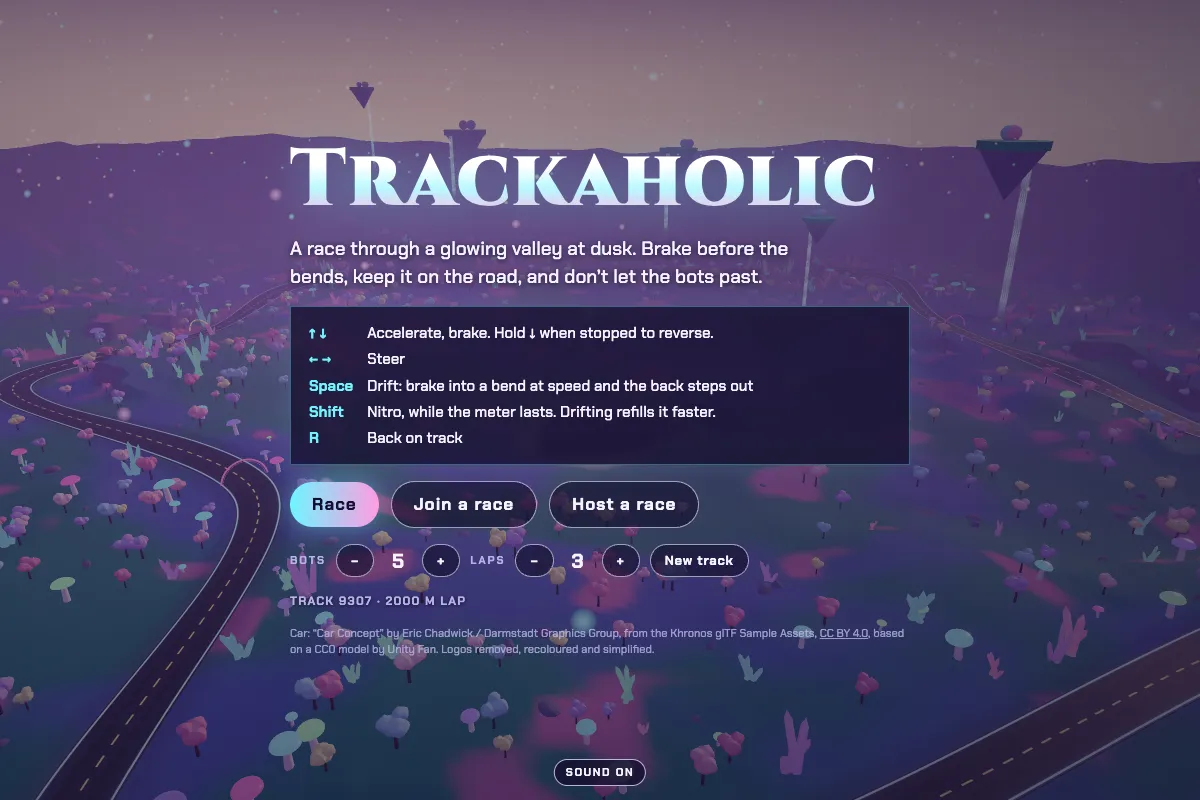
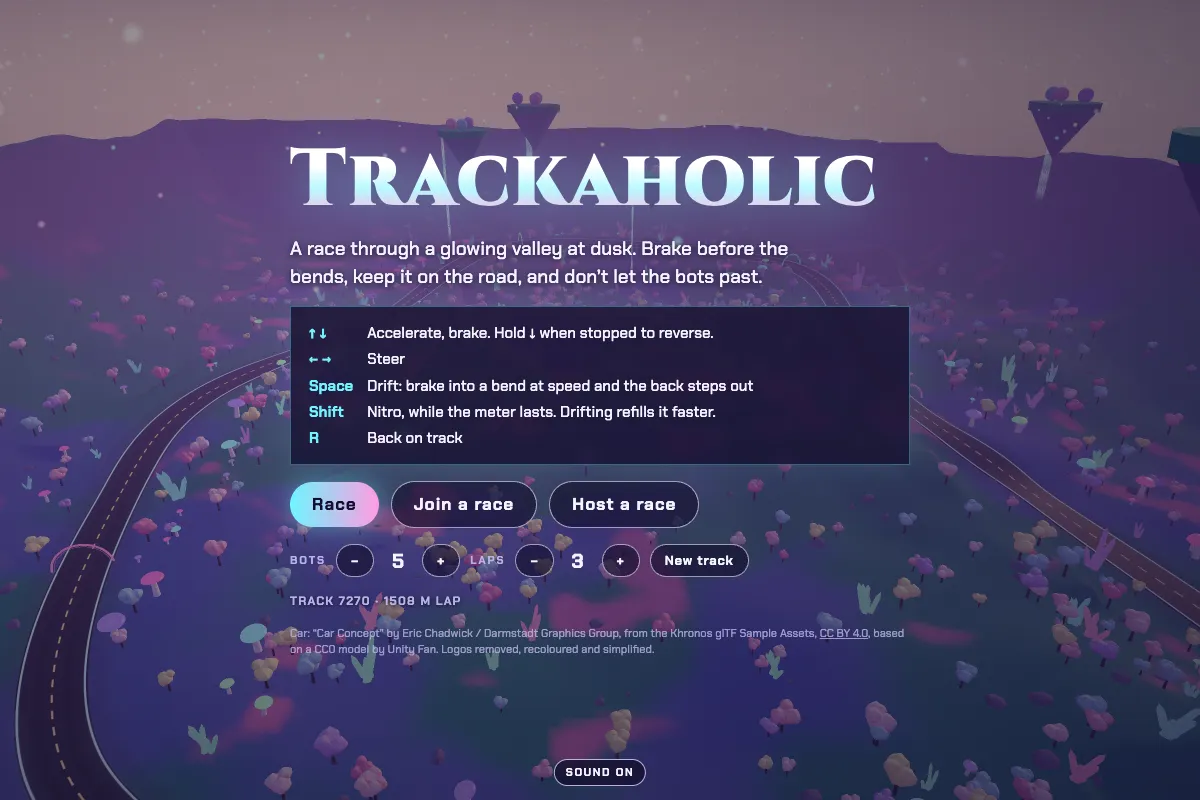
deploy: Jermolene/blog@c258cdfe18fe403fb0031694514c613552e8600b

diff --git a/toys/trackaholic/index.html b/toys/trackaholic/index.html
@@ -350,7 +350,7 @@ function makeTrack(seed){
 const Q={i:0,t:0,d:0,y:0,bk:0,dist:1e9,tx:0,tz:1,along:0};
 function trackQuery(x,z,hint=-1,out=Q){
   const t=T,S=t.S;let best=-1,bd=1e18;
-  if(hint>=0){for(let k=-14;k<=14;k++){const i=(hint+k+S)%S,dx=x-t.X[i],dz=z-t.Z[i],d=dx*dx+dz*dz;if(d<bd){bd=d;best=i}}if(bd>900)best=-1}
+  if(hint>=0){for(let k=-14;k<=14;k++){const i=(hint+k+S)%S,dx=x-t.X[i],dz=z-t.Z[i],d=dx*dx+dz*dz;if(d<bd){bd=d;best=i}}if(bd>900){best=-1;bd=1e18}}
   if(best<0){const cx=Math.floor(x/t.CELL),cz=Math.floor(z/t.CELL);
     for(let r=1;r<=4&&best<0;r+=r<2?1:2)for(let a=-r;a<=r;a++)for(let b=-r;b<=r;b++){const l=t.hash.get(t.key(cx+a,cz+b));if(l)for(const i of l){const dx=x-t.X[i],dz=z-t.Z[i],d=dx*dx+dz*dz;if(d<bd){bd=d;best=i}}}
     if(best<0)for(let i=0;i<S;i+=3){const dx=x-t.X[i],dz=z-t.Z[i],d=dx*dx+dz*dz;if(d<bd){bd=d;best=i}}}
@@ -407,8 +407,14 @@ function groundN(x,z,hint,o){const e=0.35,hx=groundH(x+e,z,hint)-groundH(x-e,z,h
 // curve), longitudinal force from drive and brakes, and the pair is capped by a friction circle scaled by that wheel's load.
 // Weight transfer, body roll and pitch all come out of the springs; nothing is scripted.
 const CAR={mass:1250,I:new THREE.Vector3(2170,2390,620),k:32000,cb:2600,cr:3500,rest:0.32,arbF:9000,arbR:6000,
-  power:175000,fmax:11500,brake:17000,cd:0.85,down:0.5,mu:1.18,muGrass:0.78,radius:0.384,wheels:null,com:new THREE.Vector3(0,0.5,0.05),
-  dims:{w:1.9,h:1.15,l:4.35,fz:2.4,rz:-1.95}};
+  power:175000,fmax:11500,brake:17000,cd:0.85,down:0.5,mu:1.45,muGrass:0.95,radius:0.384,wheels:null,com:new THREE.Vector3(0,0.5,0.05),
+  dims:{w:1.9,h:1.15,l:4.35,fz:2.4,rz:-1.95},
+  // handling aids, tuned with toys-src/trackaholic/test/gameplay.mjs (as was the grip, mu and muGrass): in the air the
+  // body is turned to match the ground below and its rolling and pitching damped (air); on the ground a tipped car is
+  // pushed back upright (tip); tyre forces act tyreH above the contact patch; steering lock falls with speed as
+  // 1/(1+v/stV); on touch screens the automatic throttle also slows for the corner ahead, aiming for assist times the
+  // corner's speed (0 turns that off)
+  air:{k:8,d:3},tip:{k:6,start:0.35},tyreH:0.28,stV:16,assist:1.05};
 const HZ=120,GRAV=9.81;
 const _v1=new THREE.Vector3(),_v2=new THREE.Vector3(),_v3=new THREE.Vector3(),_v4=new THREE.Vector3(),_v5=new THREE.Vector3(),_n=new THREE.Vector3(),
   _m3=new THREE.Matrix3(),_m4=new THREE.Matrix4(),_q=new THREE.Quaternion(),_up=new THREE.Vector3(),_fw=new THREE.Vector3(),_rt=new THREE.Vector3(),
@@ -458,7 +464,7 @@ function stepCar(c,inp,h){
   c.boost=!!inp.nitro&&c.nitro>0&&!c.rev&&!c.done;
   if(c.boost){c.nitro=Math.max(0,c.nitro-h/2.6);drive=1}else c.nitro=Math.min(1,c.nitro+h/9+(drifting?h/2.5:0));
   if(c.done){drive=0;brakeIn=Math.max(brakeIn,0.25)}
-  const maxSt=0.6/(1+Math.max(0,vf)/16);
+  const maxSt=0.6/(1+Math.max(0,vf)/CAR.stV);
   c.steer+=clamp(clamp(inp.steer,-1,1)*maxSt-c.steer,-2.4*h,2.4*h);
   c.thr=drive;c.brk=brakeIn;
   _F.set(0,-m*GRAV,0);_Tq.set(0,0,0);
@@ -503,7 +509,7 @@ function stepCar(c,inp,h){
     // suspension along the strut, tyre forces applied a little above the contact patch to tame roll
     _v3.copy(_up).multiplyScalar(Fs);_F.add(_v3);_Tq.add(_v4.crossVectors(_v5.copy(C).addScaledVector(_up,0.0).sub(c.p),_v3));
     _v3.copy(_wf).multiplyScalar(Fx).addScaledVector(_ws,Fy);_F.add(_v3);
-    _Tq.add(_v4.crossVectors(_v5.copy(C).addScaledVector(_up,0.28).sub(c.p),_v3));
+    _Tq.add(_v4.crossVectors(_v5.copy(C).addScaledVector(_up,CAR.tyreH).sub(c.p),_v3));
     c.spin[k]+=vl/CAR.radius*h*(brakeIn>0.9&&Math.abs(vl)<1?0:1);
   }
   c.slipMax=slipMax;
@@ -520,6 +526,12 @@ function stepCar(c,inp,h){
       _F.add(_v3);_Tq.add(_v4.crossVectors(_v1,_v3))}}
   // integrate
   c.v.addScaledVector(_F,h/m);
+  // handling aids: level the car in the air to the ground below, and push a tipped car back upright
+  {const nw=c.contact.filter(Boolean).length,upY=_up.y;
+    let k=0,d=0;if(!nw){k=CAR.air.k;d=CAR.air.d}else if(nw<4&&upY>0.2){const tilt=Math.acos(clamp(upY,-1,1));if(tilt>CAR.tip.start)k=CAR.tip.k}
+    if(k||d){groundN(c.p.x,c.p.z,c.hint,_n);_v2.crossVectors(_up,_n);const sn=_v2.length(),ang=Math.atan2(sn,_up.dot(_n)),Ir=CAR.I.x;
+      if(sn>1e-4)_Tq.addScaledVector(_v2,Ir*k*ang/sn);
+      if(d){_v3.copy(c.w).addScaledVector(_n,-c.w.dot(_n));_Tq.addScaledVector(_v3,-Ir*d)}}}
   _v1.copy(_Tq).applyMatrix3(_m3.clone().transpose()); // to body frame
   _v1.set(_v1.x/CAR.I.x,_v1.y/CAR.I.y,_v1.z/CAR.I.z).applyMatrix3(_m3);
   c.w.addScaledVector(_v1,h).multiplyScalar(1-0.4*h);
@@ -887,27 +899,37 @@ function tiltRotated(){tilt.settle=now()+600;tiltZero()}
 if(screen.orientation&&screen.orientation.addEventListener)screen.orientation.addEventListener('change',tiltRotated);
 addEventListener('orientationchange',tiltRotated);
 addEventListener('resize',()=>{const l=innerWidth>innerHeight;if(l!==tilt.land){tilt.land=l;tiltRotated()}});
+// device angle in degrees (clockwise positive) to steering
+function tiltCurve(deg){const a=Math.abs(deg);return a<1.5?0:Math.sign(deg)*Math.pow(Math.min(1,(a-1.5)/26.5),1.15)}
 function tiltSteer(dt){
   if(now()<tilt.settle){tiltZero();return 0}
   let d=tilt.raw-tilt.zero;d=Math.atan2(Math.sin(d),Math.cos(d));
   const deg=-d*180/Math.PI,a=Math.abs(deg);
   // held far past any steering angle for most of a second (a turned device whose screen is locked): centre again
   if(a>65){if(!tilt.far)tilt.far=now();else if(now()-tilt.far>800){tilt.far=0;tiltZero();return 0}}else tilt.far=0;
-  const s=a<1.5?0:Math.sign(deg)*Math.pow(Math.min(1,(a-1.5)/26.5),1.15);
+  const s=tiltCurve(deg);
   tilt.steer+=(s-tilt.steer)*Math.min(1,dt*18);return tilt.steer}
 const tiltMode=()=>tilt.pref==='tilt'&&tilt.ok;
 function paintPad(){$('#pad').classList.toggle('tilt',tiltMode())}
 function paintSteer(){const b=$('#steerMode');b.hidden=!TILT_ABLE;b.textContent='Steering: '+(tilt.pref==='tilt'?'Tilt':'Drag');paintPad()}
 $('#steerMode').onclick=()=>{tilt.pref=tilt.pref==='tilt'?'drag':'tilt';store.set('trackaholic.steer',tilt.pref);askTilt();paintSteer()};
 paintSteer();if(TILT_ABLE&&tilt.pref==='tilt'&&!(window.DeviceMotionEvent&&typeof DeviceMotionEvent.requestPermission==='function'))listenTilt();
+// the automatic throttle on touch screens, which also slows for the corner ahead: {thr, brk}
+function autoGas(c){
+  let thr=1,brk=0;
+  if(CAR.assist>0){const v=c.v.length(),n=Math.ceil((8+v*v/14)/SAMPLE);let vt=1e9;
+    for(let j=0;j<n;j++){const s=(c.idx+j)%T.S,d=j*SAMPLE;vt=Math.min(vt,Math.sqrt(T.VC[s]*T.VC[s]*CAR.assist*CAR.assist+2*7*d))}
+    thr=Math.min(thr,clamp((vt-v)*0.35+0.3,0,1));if(v>vt+3)brk=clamp((v-vt-3)*0.2,0,1)}
+  return{thr,brk}}
 function playerInput(dt){
   const k=keys.R-keys.L;kSteer+=clamp(k-kSteer,-4*dt,4*dt);if(!k&&Math.abs(kSteer)<0.06)kSteer=0;
-  const autoGas=IS_TOUCH; // on a phone the car accelerates by itself; the thumbs brake, drift and fire the nitro
+  const autoGasOn=IS_TOUCH; // on a phone the car accelerates by itself; the thumbs brake, drift and fire the nitro
   const me=G.me,fast=me&&me.v.dot(_v1.set(0,0,1).applyQuaternion(me.q))>9;
   const steer=clamp(kSteer+(tiltMode()?tiltSteer(dt):touch.steer),-1,1);
   // braking while turning at speed drifts; braking in a straight line just brakes
   const drift=(keys.S||touch.drift)&&fast&&Math.abs(steer)>0.25,brk=keys.D||keys.S||touch.brake?1:0;
-  return{steer,thr:brk&&!drift?0:(keys.U||autoGas?1:0),brk,drift,nitro:!!(keys.N||touch.nitro)};
+  const ag=autoGasOn&&me&&!keys.U?autoGas(me):{thr:keys.U?1:0,brk:0};
+  return{steer,thr:brk&&!drift?0:ag.thr,brk:Math.max(brk,ag.brk),drift,nitro:!!(keys.N||touch.nitro)};
 }
 
 /* ================= game state ================= */
@@ -1354,7 +1376,7 @@ const GU={live:null,spares:[],heard:0,rescuing:false,ping:0,tryT:0,id:null,lobby
 function setStatus(sel,t,err){const e=$(sel);e.textContent=t;e.classList.toggle('err',!!err)}
 
 /* ================= boot ================= */
-window.GW={G,HOST,GU,get T(){return T},stepCar,botInput,groundH,terrainH,trackQuery,startSolo,setupRace,newCar,placeCar,CAR,accept:c=>HOST.accept(c)};
+window.GW={G,HOST,GU,get T(){return T},rebuildCourse,resetCar,tiltCurve,autoGas,HALF_W,HZ,stepCar,botInput,groundH,terrainH,trackQuery,startSolo,setupRace,newCar,placeCar,CAR,accept:c=>HOST.accept(c)};
 window.FL=window.GW;
 resize();
 const hj=/^#j=([A-Za-z0-9_-]+)$/.exec(location.hash);

diff --git a/toys/sw.js b/toys/sw.js
@@ -25,7 +25,7 @@ responses can still be stored.
 "use strict";
 
 self.PRECACHE = {
-	"version": "1e792c4a1973ea94",
+	"version": "220a1502a0b3c098",
 	"urls": [
 		"/toys/",
 		"/toys/animal-island/apple-touch-icon.png",
